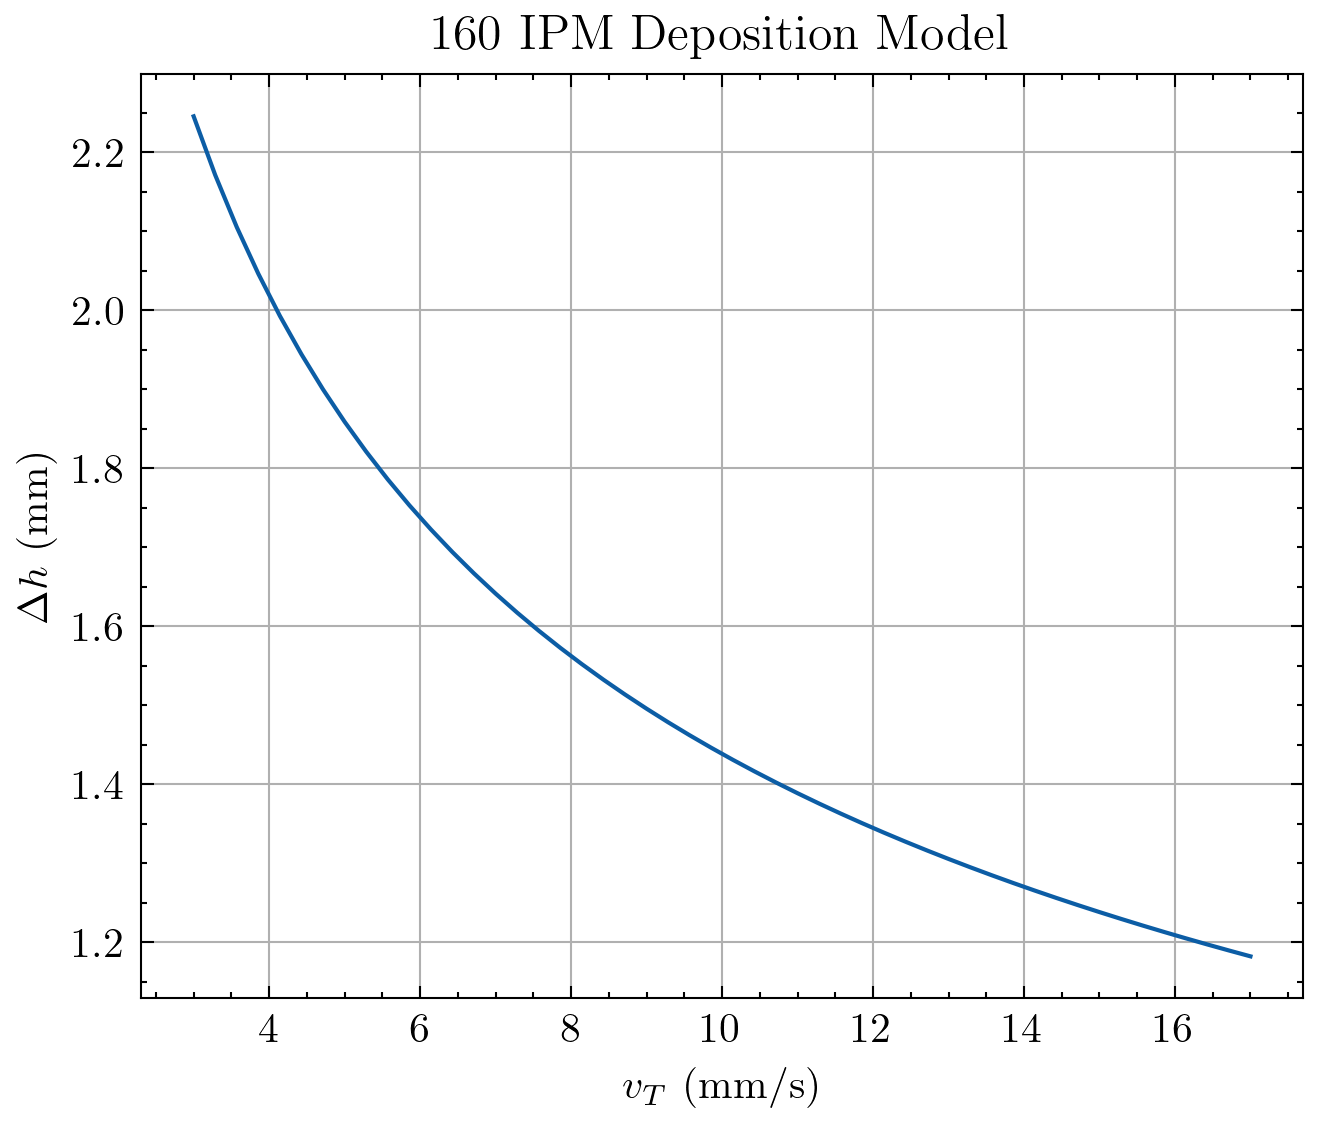
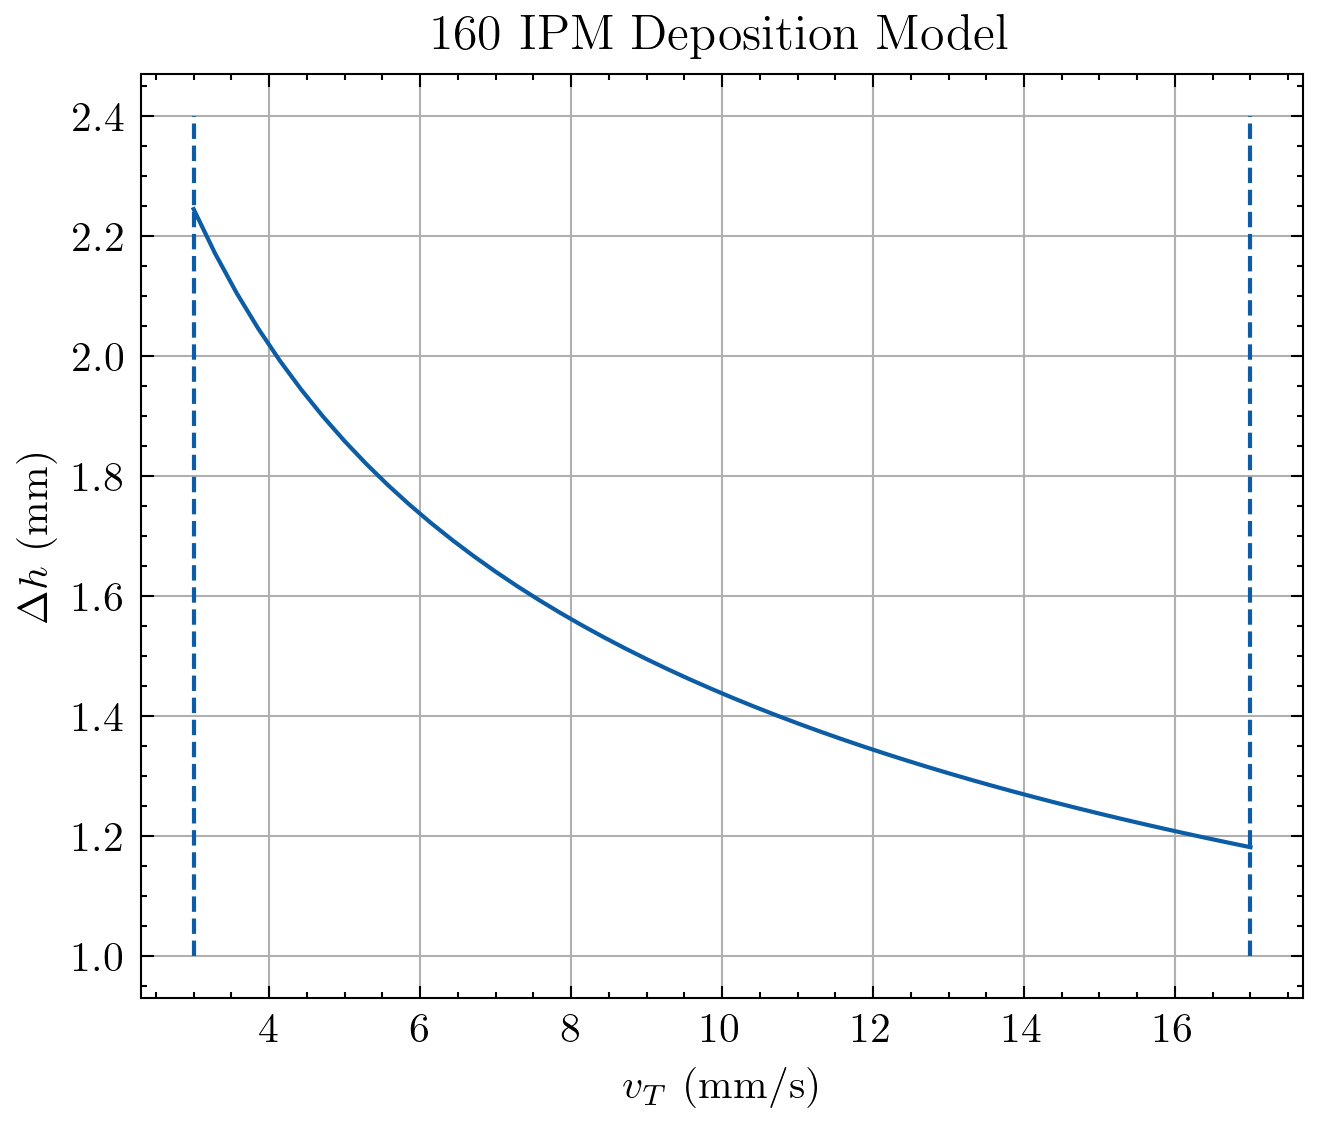
CASE paper plots

diff --git a/insitu_correction/filter_comp_avg.py b/insitu_correction/filter_comp_avg.py
@@ -6,8 +6,7 @@ import numpy as np
 from motoman_def import robot_obj, positioner_obj
 from robotics_utils import H_inv
 sys.path.append('../../Welding_Motoman/toolbox')
-from angled_layers import avg_by_line, rotate, LiveFilter
-import scienceplots
+from angled_layers import avg_by_line, rotate, LiveAverageFilter
 
 def rms_error(data):
     data = np.array(data)
@@ -23,35 +22,6 @@ config_dir = "../../Welding_Motoman/config/"
 dataset = "bent_tube/"
 sliced_alg = "slice_ER_4043_large_hot/"
 data_dir = "../../Welding_Motoman/data/" + dataset + sliced_alg
-
-plt.style.use('science')
-# colors = plt.rcParams['axes.prop_cycle'].by_key()['color']
-# print('\n'.join(color for color in colors))
-# exit()
-plt.rcParams['text.usetex'] = True
-
-fig,ax=plt.subplots()
-fig.set_size_inches(5,4)
-fig.set_dpi(300)
-marker_size = 2
-plt_colors = [
-    '#0C5DA5',
-    '#00B945',
-    '#FF9500',
-    '#FF2C00',
-]
-plt_styles = [
-    'solid',
-    'dotted',
-    'dashed',
-    'dashdot'
-]
-marker_styles = [
-    'o',
-    '^',
-    's',
-    'D'
-]
 
 # flame_set = 'processing_data/ER4043_bent_tube_2024_09_04_12_23_40_flame.pkl'
 flame_set = [
@@ -143,21 +113,33 @@ for idx,flame in enumerate(flame_set):
         flame[:, 1] = new_x
         flame[:, 3] = new_z - base_thickness
         flame[:,0] = flame[:,0]-job_no_offset
-        if layer == 101:
-            filter = LiveFilter()
-            for i in range(flame.shape[0]):
-                flames_filter.append(filter.process(flame[i,1:])[2])
-            time = np.linspace(0,len(flame)/30, len(flame))
-            start_idx = 32
-            ax.plot(time[start_idx:],flame[start_idx:,3], c=plt_colors[0])
-            ax.plot(time[start_idx:],flames_filter[start_idx:], c=plt_colors[2])
-            ax.set_xlabel("Time (s)")
-            ax.set_ylabel("Error (mm)")
-            ax.set_title(f"Height Filter Comparison Layer {layer}")
-            ax.legend(["Raw","Filtered"])
-            fig.savefig('filter_comp_101.png', dpi=fig.dpi)
-            plt.show()
+        if layer == 103:
+            filter = LiveAverageFilter()
+            flame_filt_val = [0,0,0]
+            curr_idx = 0
+            seg_flame_count = 0
 
+            for i in range(flame.shape[0]):
+                if (flame[i,0]!=curr_idx):
+                    flame_filt_val = filter.read_filter()
+                    for j in range(seg_flame_count+1):
+                        flames_filter.append(flame_filt_val)
+                    curr_idx = flame[i,0]
+                    seg_flame_count=0
+                else:
+                    seg_flame_count += 1
+                    filter.log_reading(flame[i,1:])
+            flame_filt_val = filter.read_filter()
+            for j in range(seg_flame_count):
+                flames_filter.append(flame_filt_val)
+
+            flames_filter = np.array(flames_filter)
+            plt.plot(flame[:,0],flame[:,3])
+            plt.plot(flame[:,0],flames_filter[:,2])
+            plt.xlabel("Timestep")
+            plt.ylabel("Error (mm)")
+            plt.title(f"Filter Comparison Layer {layer}")
+            plt.show()
         # plt.plot(flame[:,1], flame[:,3])
         averages= avg_by_line(flame[:,0], flame[:,1:], np.linspace(0,49,50))
         height_err.append(averages[:,2])

diff --git a/insitu_correction/filter_comp.py b/insitu_correction/filter_comp.py
@@ -6,7 +6,8 @@ import numpy as np
 from motoman_def import robot_obj, positioner_obj
 from robotics_utils import H_inv
 sys.path.append('../../Welding_Motoman/toolbox')
-from angled_layers import avg_by_line, rotate, LiveAverageFilter
+from angled_layers import avg_by_line, rotate, LiveFilter
+import scienceplots
 
 def rms_error(data):
     data = np.array(data)
@@ -22,6 +23,35 @@ config_dir = "../../Welding_Motoman/config/"
 dataset = "bent_tube/"
 sliced_alg = "slice_ER_4043_large_hot/"
 data_dir = "../../Welding_Motoman/data/" + dataset + sliced_alg
+
+plt.style.use('science')
+# colors = plt.rcParams['axes.prop_cycle'].by_key()['color']
+# print('\n'.join(color for color in colors))
+# exit()
+plt.rcParams['text.usetex'] = True
+
+fig,ax=plt.subplots()
+fig.set_size_inches(5,4)
+fig.set_dpi(300)
+marker_size = 2
+plt_colors = [
+    '#0C5DA5',
+    '#00B945',
+    '#FF9500',
+    '#FF2C00',
+]
+plt_styles = [
+    'solid',
+    'dotted',
+    'dashed',
+    'dashdot'
+]
+marker_styles = [
+    'o',
+    '^',
+    's',
+    'D'
+]
 
 # flame_set = 'processing_data/ER4043_bent_tube_2024_09_04_12_23_40_flame.pkl'
 flame_set = [
@@ -113,33 +143,21 @@ for idx,flame in enumerate(flame_set):
         flame[:, 1] = new_x
         flame[:, 3] = new_z - base_thickness
         flame[:,0] = flame[:,0]-job_no_offset
-        if layer == 103:
-            filter = LiveAverageFilter()
-            flame_filt_val = [0,0,0]
-            curr_idx = 0
-            seg_flame_count = 0
-
+        if layer == 101:
+            filter = LiveFilter()
             for i in range(flame.shape[0]):
-                if (flame[i,0]!=curr_idx):
-                    flame_filt_val = filter.read_filter()
-                    for j in range(seg_flame_count+1):
-                        flames_filter.append(flame_filt_val)
-                    curr_idx = flame[i,0]
-                    seg_flame_count=0
-                else:
-                    seg_flame_count += 1
-                    filter.log_reading(flame[i,1:])
-            flame_filt_val = filter.read_filter()
-            for j in range(seg_flame_count):
-                flames_filter.append(flame_filt_val)
-
-            flames_filter = np.array(flames_filter)
-            plt.plot(flame[:,0],flame[:,3])
-            plt.plot(flame[:,0],flames_filter[:,2])
-            plt.xlabel("Timestep")
-            plt.ylabel("Error (mm)")
-            plt.title(f"Filter Comparison Layer {layer}")
+                flames_filter.append(filter.process(flame[i,1:])[2])
+            time = np.linspace(0,len(flame)/30, len(flame))
+            start_idx = 32
+            ax.plot(time[start_idx:],flame[start_idx:,3], c=plt_colors[0], alpha=0.3)
+            ax.plot(time[start_idx:],flames_filter[start_idx:], c=plt_colors[0])
+            ax.set_xlabel("Time (s)")
+            ax.set_ylabel("Error (mm)")
+            ax.set_title(f"Height Filter Comparison Layer {layer-82}")
+            ax.legend(["Raw","Filtered"])
+            fig.savefig('filter_comp_19.png', dpi=fig.dpi)
             plt.show()
+
         # plt.plot(flame[:,1], flame[:,3])
         averages= avg_by_line(flame[:,0], flame[:,1:], np.linspace(0,49,50))
         height_err.append(averages[:,2])

diff --git a/insitu_correction/err_plot.py b/insitu_correction/err_plot.py
@@ -73,7 +73,7 @@ plt.rcParams['text.usetex'] = True
 fig, ax= plt.subplots()
 fig.set_size_inches(5,4)
 fig.set_dpi(300)
-marker_size = 2
+marker_size = 15
 plt_colors = [
     '#0C5DA5',
     '#00B945',
@@ -99,8 +99,8 @@ marker_styles = [
 #         "Closed-Loop Hot Model"
 #         ]
 labels = [
-        'Layer Planning Only',
-        'In-Process Correction'
+        'Layer-to-Layer\nCorrection Only',
+        'Layer-to-Layer and\nIn-Layer Correction'
         ]
 
 err_set = [
@@ -122,13 +122,13 @@ ax.scatter(
         s=marker_size, 
         marker=marker_styles[0],
         label = labels[0],
-        color = plt_colors[0]
+        color = plt_colors[1]
         )
 ax.plot(
         layer_no,
         err_data,
         alpha=0.3,
-        color = plt_colors[0]
+        color = plt_colors[1]
         )
 print("-----Planning Stats------")
 print("Mean Error: ", np.mean(err_data))
@@ -143,13 +143,13 @@ ax.scatter(
         s=marker_size, 
         marker=marker_styles[1],
         label = labels[1],
-        color = plt_colors[1]
+        color = plt_colors[0]
         )
 ax.plot(
         layer_no,
         err_data,
         alpha=0.3,
-        color = plt_colors[1]
+        color = plt_colors[0]
         )
 
 # print stats

diff --git a/insitu_correction/model_plot.py b/insitu_correction/model_plot.py
@@ -47,7 +47,9 @@ model = SpeedHeightModel(a=-0.36997977, b=1.21532975)
 v = np.linspace(3,17)
 dh = model.v2dh(v)
 
-ax.plot(v,dh)
+ax.plot(v,dh, c=plt_colors[0])
+ax.plot([3,3], [1.0,2.4], c=plt_colors[0], linestyle='--')
+ax.plot([17,17], [1.0,2.4], c=plt_colors[0], linestyle='--')
 ax.grid()
 ax.set_xlabel(r"$v_T$ (mm/s)")
 ax.set_ylabel(r"$\Delta h$ (mm)")
